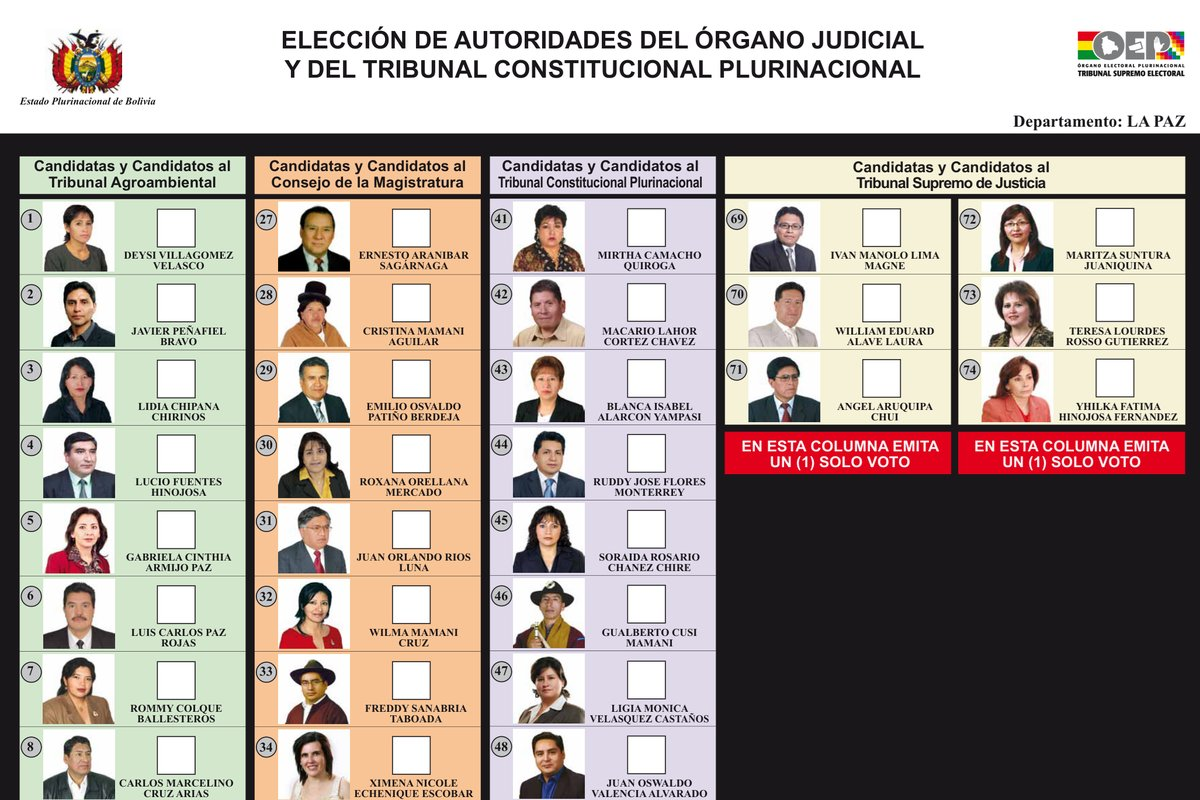
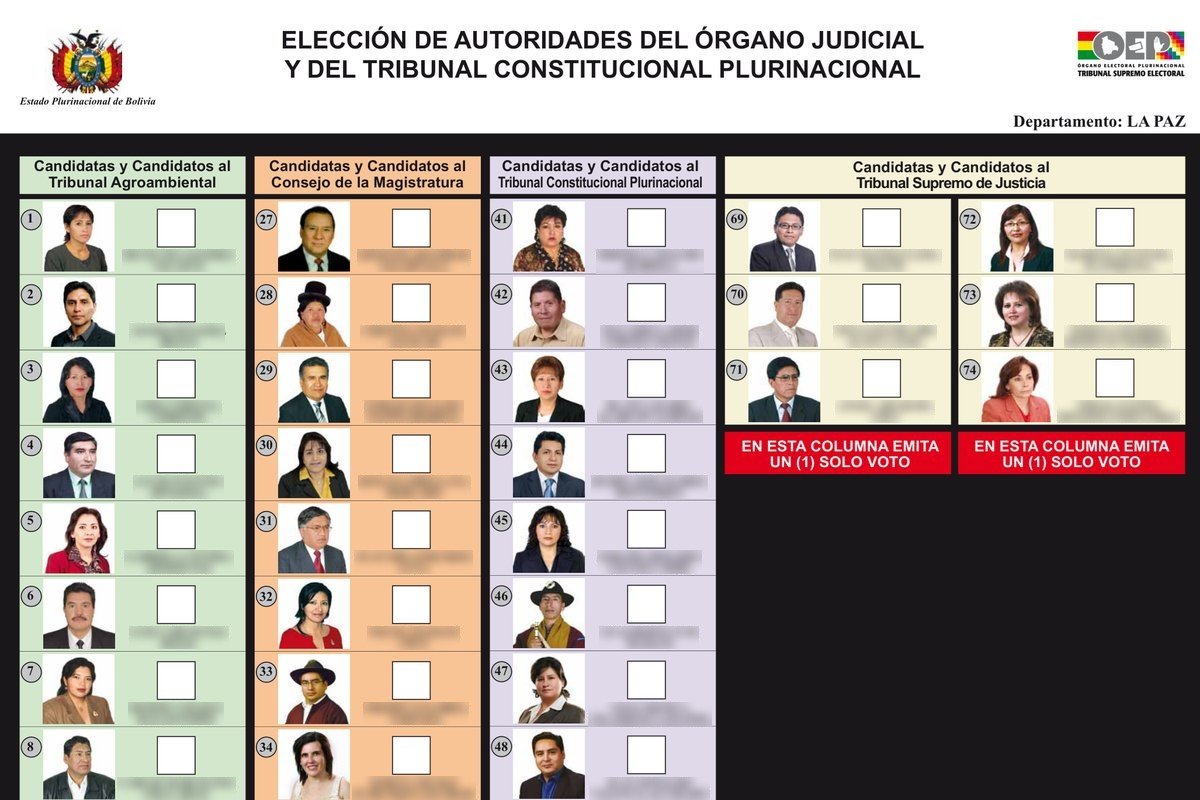
Ballot photo: candidate names blurred for anonymity

diff --git a/index.html b/index.html
@@ -137,8 +137,8 @@
           <summary>Abstract</summary>
           <p>In 2011, Bolivia became the first country to select its highest court judges by popular vote, aiming to democratize justice and strengthen judicial legitimacy. This paper studies whether the reform affected the courts’ capacity to check the executive. Using the universe of high-court rulings since 2000, I compare outcomes in politically sensitive cases before and after the reform in a difference in differences setting. Preliminary findings suggest that, after the reform, the constitutional court became more likely to rule in favor of the government in cases where political power is directly at stake, including removal from office and electoral disputes. In the criminal chamber of the supreme court, appeals filed by accused public officials became more likely to be admitted and to succeed. These patterns are not present before the reform and become stronger under the second cohort of elected judges. Taken together, the evidence suggests that the popular election of judges, combined with government control over candidate pre-selection, may have facilitated political capture rather than strengthened checks and balances.</p>
           <figure class="paper-figure paper-figure--wide">
-            <img src="ballot_2011.jpg" alt="Ballot for Bolivia’s 2011 judicial elections, La Paz department, listing candidates with photographs for the Agro-environmental Tribunal, the Council of the Magistracy, the Plurinational Constitutional Tribunal and the Supreme Court of Justice" width="1200" height="800" loading="lazy">
-            <figcaption>Ballot for the 2011 judicial elections, La Paz department. Cropped for size and shown for illustration only (it does not include all candidates).</figcaption>
+            <img src="ballot_2011.jpg" alt="Ballot for Bolivia’s 2011 judicial elections, La Paz department, listing candidates with photographs for the Agro-environmental Tribunal, the Council of the Magistracy, the Plurinational Constitutional Tribunal and the Supreme Court of Justice; candidate names are blurred" width="1200" height="800" loading="lazy">
+            <figcaption>Ballot for the 2011 judicial elections, La Paz department. Cropped for size and shown for illustration only (it does not include all candidates). Candidate names blurred to preserve anonymity.</figcaption>
           </figure>
         </details>
         <p class="presentations"><span class="label">Presented at:</span> PSE GPET seminar.</p>
